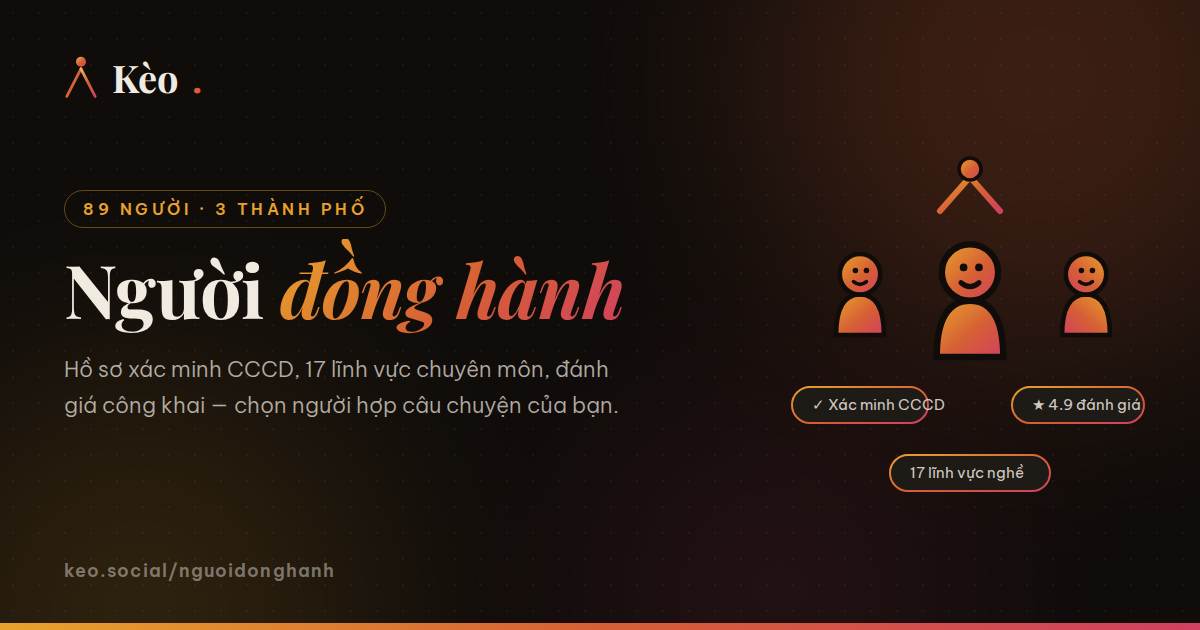
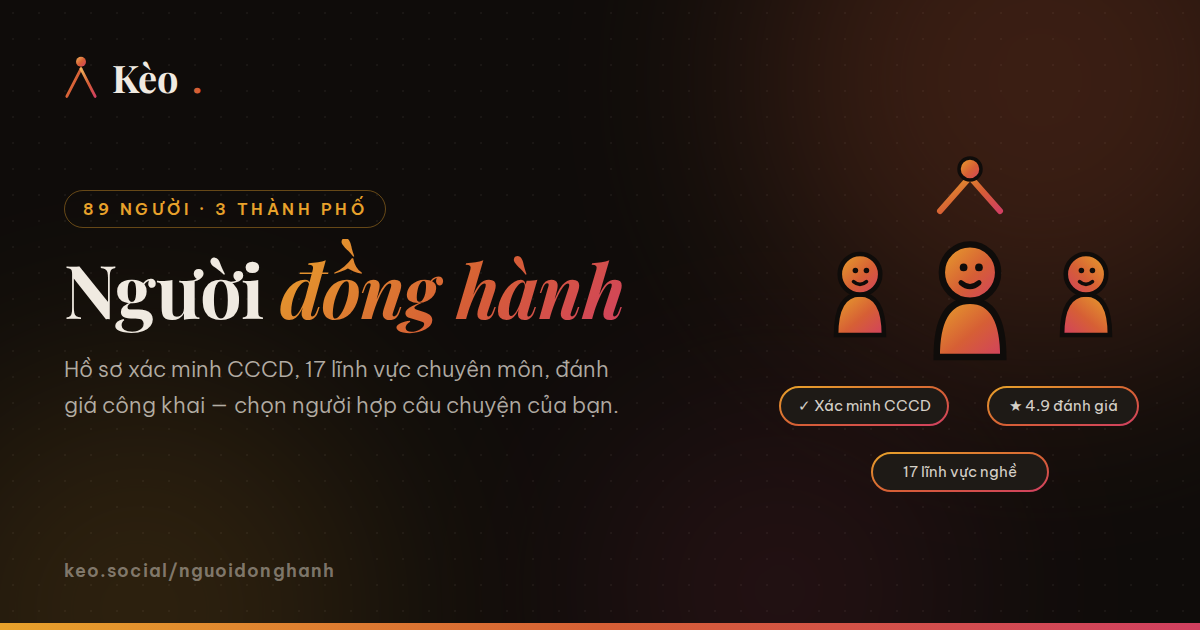
Add files via upload

Changed region(s): [[0.6475, 0.6032, 0.9558, 0.7841]]

diff --git a/khoa-hoc-ket-noi.html b/khoa-hoc-ket-noi.html
@@ -361,11 +361,75 @@ footer{background:#17120D;padding:56px 32px 32px;margin-top:64px}
   </div>
 </div>
 
-<div class="featured" id="featured">
+<div class="featured">
   <div class="featured-in">
-    <div class="feat-card" id="featCard">
-      <div class="ld" style="padding:60px 0;text-align:center;width:100%" data-i18n="feat_loading">Đang chọn bài nổi bật…</div>
+  <div class="feat-card">
+    <div class="feat-main">
+      <a href="/kho-ket-ban-sau-25-tuoi" class="feat-cover">
+        <svg viewBox="0 0 500 220" fill="none" class="feat-cover-art" preserveAspectRatio="xMidYMid slice">
+          <defs><linearGradient id="fcg" x1="0" y1="0" x2="1" y2="1">
+            <stop offset="0%" style="stop-color:color-mix(in srgb,var(--amber) 80%,var(--gold) 20%)"/>
+            <stop offset="55%" style="stop-color:var(--amber)"/>
+            <stop offset="100%" style="stop-color:color-mix(in srgb,var(--amber) 65%,#000 30%)"/>
+          </linearGradient></defs>
+          <rect width="500" height="220" fill="url(#fcg)"/>
+          <circle cx="420" cy="45" r="95" fill="#fff" opacity=".05"/>
+          <path d="M0 200 Q150 175 300 195 T500 180" stroke="#fff" stroke-width="1.4" opacity=".14" fill="none"/>
+          <!-- Một người, một mình giữa các toà nhà — minh hoạ gốc của bài, phóng lớn -->
+          <g transform="translate(300,4) scale(2.15)">
+            <path d="M18 76 Q18 60 27 60 Q36 60 36 76Z" fill="rgba(255,255,255,.24)" stroke="#fff" stroke-width="2"/><circle cx="27" cy="50" r="11" fill="rgba(255,255,255,.24)" stroke="#fff" stroke-width="2"/><circle cx="23" cy="48" r="1.3" fill="#fff"/><circle cx="31" cy="48" r="1.3" fill="#fff"/><path d="M23 54 Q27 57 31 54" stroke="#fff" stroke-width="1.6" stroke-linecap="round" fill="none"/><rect x="48" y="14" width="14" height="40" fill="none" stroke="#fff" stroke-width="1.8"/><rect x="52" y="20" width="3" height="4" fill="#fff" opacity=".7"/><rect x="58" y="20" width="3" height="4" fill="#fff" opacity=".7"/><rect x="52" y="28" width="3" height="4" fill="#fff" opacity=".7"/><rect x="58" y="28" width="3" height="4" fill="#fff" opacity=".7"/><rect x="65" y="26" width="9" height="28" fill="none" stroke="#fff" stroke-width="1.6" opacity=".8"/>
+          </g>
+        </svg>
+        <div class="feat-cover-overlay">
+          <span class="feat-badge vi">★ Bài nổi bật · Đô thị &amp; Kết nối</span>
+          <span class="feat-badge en">★ Featured · Urban Life</span>
+          <div class="feat-title"><span class="vi">Tại sao người trẻ Việt Nam ngày càng khó kết bạn <em>sau 25 tuổi</em></span><span class="en">Why Making Friends <em>After 25</em> Gets Harder for Young Vietnamese</span></div>
+        </div>
+      </a>
+      <div class="feat-body">
+        <div class="feat-desc"><span class="vi">Không phải vì bạn bận hơn hay khó tính hơn. Cấu trúc cuộc sống người lớn không được thiết kế để tình bạn tự nhiên hình thành.</span><span class="en">It's not that you're busier or pickier. Adult life just isn't built for friendships to form on their own.</span></div>
+        <a href="/kho-ket-ban-sau-25-tuoi" class="feat-read"><span class="vi">Đọc bài viết →</span><span class="en">Read article →</span></a>
+      </div>
     </div>
+    <div class="feat-right">
+      <div class="feat-right-hd">
+        <div class="feat-right-lbl"><span class="vi">Đọc thêm</span><span class="en">Also recommended</span></div>
+      </div>
+      <a href="/tai-sao-nguoi-tre-ngai-goi-dien-hon-nhan-tin" class="feat-side feat-side-dothi rv">
+        <div class="feat-side-cover">
+          <span class="feat-side-cat"><span class="vi">Đô thị</span><span class="en">Urban Life</span></span>
+          <div class="feat-side-illo"><svg viewBox="0 0 64 64" fill="none"><path d="M10 60 Q10 46 18 46 Q26 46 26 60Z" fill="rgba(255,255,255,.2)" stroke="#fff" stroke-width="1.8"/><circle cx="18" cy="36" r="10" fill="rgba(255,255,255,.2)" stroke="#fff" stroke-width="1.8"/><circle cx="15" cy="34" r="1.2" fill="#fff"/><circle cx="21" cy="34" r="1.2" fill="#fff"/><rect x="24" y="38" width="9" height="15" rx="2" fill="none" stroke="#fff" stroke-width="1.5"/><path d="M42 14 Q50 14 50 20 Q50 26 42 26 L38 30 L39 25 Q34 24 34 20 Q34 14 42 14Z" fill="rgba(255,255,255,.28)" stroke="#fff" stroke-width="1.4"/><circle cx="39" cy="20" r="1" fill="#fff"/><circle cx="42" cy="20" r="1" fill="#fff"/><circle cx="45" cy="20" r="1" fill="#fff"/><circle cx="52" cy="42" r="7" fill="none" stroke="#fff" stroke-width="1.3" stroke-dasharray="2 3" opacity=".55"/><path d="M48.5 38.5 L55.5 45.5 M55.5 38.5 L48.5 45.5" stroke="#fff" stroke-width="1.3" stroke-linecap="round" opacity=".5"/></svg></div>
+          <div class="feat-side-title"><span class="vi">Tại sao người trẻ ngại gọi điện hơn nhắn tin</span><span class="en">Why Young People Dread Phone Calls More Than Texts</span></div>
+        </div>
+        <div class="feat-side-body">
+          <div class="feat-side-desc"><span class="vi">Nhắn tin duy trì kết nối. Gọi điện tạo ra kết nối. Đây là hai việc khác nhau.</span><span class="en">Texting maintains a connection. Calling creates one. They're not the same thing.</span></div>
+          <div class="feat-side-time"><span class="vi">5 phút đọc</span><span class="en">5 min read</span></div>
+        </div>
+      </a>
+      <a href="/cach-dat-cau-hoi" class="feat-side feat-side-kynang rv">
+        <div class="feat-side-cover">
+          <span class="feat-side-cat"><span class="vi">Kỹ năng</span><span class="en">Skills</span></span>
+          <div class="feat-side-illo"><svg viewBox="0 0 64 64" fill="none"><path d="M14 60 Q14 44 24 44 Q34 44 34 60Z" fill="rgba(255,255,255,.22)" stroke="#fff" stroke-width="1.8"/><circle cx="24" cy="34" r="11" fill="rgba(255,255,255,.22)" stroke="#fff" stroke-width="1.8"/><circle cx="20" cy="32" r="1.3" fill="#fff"/><circle cx="28" cy="32" r="1.3" fill="#fff"/><path d="M19 38 Q24 41 29 38" stroke="#fff" stroke-width="1.5" stroke-linecap="round" fill="none"/><circle cx="47" cy="28" r="6" stroke="#fff" stroke-width="1.4" opacity=".75" fill="none"/><circle cx="47" cy="28" r="12" stroke="#fff" stroke-width="1.2" opacity=".45" fill="none"/><circle cx="47" cy="28" r="18" stroke="#fff" stroke-width="1" opacity=".22" fill="none"/><text x="47" y="32.5" text-anchor="middle" font-family="Georgia,serif" font-size="11" font-weight="700" fill="#fff">?</text></svg></div>
+          <div class="feat-side-title"><span class="vi">Cách đặt câu hỏi để trò chuyện không bao giờ cạn</span><span class="en">How to Ask Questions That Keep Conversations Going</span></div>
+        </div>
+        <div class="feat-side-body">
+          <div class="feat-side-desc"><span class="vi">Câu hỏi đúng không chỉ mở chủ đề mới — nó mở ra cả con người của người đối diện.</span><span class="en">The right question doesn't just open a new topic — it opens up the person in front of you.</span></div>
+          <div class="feat-side-time"><span class="vi">5 phút đọc</span><span class="en">5 min read</span></div>
+        </div>
+      </a>
+      <a href="/thu-keo" class="feat-side feat-side-dothi rv">
+        <div class="feat-side-cover">
+          <span class="feat-side-cat"><span class="vi">Đô thị</span><span class="en">Urban Life</span></span>
+          <div class="feat-side-illo"><svg viewBox="0 0 64 64" fill="none"><path d="M10 60 Q10 46 18 46 Q26 46 26 60Z" fill="rgba(255,255,255,.22)" stroke="#fff" stroke-width="1.8"/><circle cx="18" cy="36" r="10" fill="rgba(255,255,255,.22)" stroke="#fff" stroke-width="1.8"/><circle cx="15" cy="34" r="1.2" fill="#fff"/><circle cx="21" cy="34" r="1.2" fill="#fff"/><path d="M14 39 Q18 42 22 39" stroke="#fff" stroke-width="1.5" stroke-linecap="round" fill="none"/><path d="M28 48 L28 55 Q28 58 31 58 L34 58 Q37 58 37 55 L37 48Z" fill="none" stroke="#fff" stroke-width="1.5"/><path d="M37 50 Q41 50 41 53 Q41 56 37 55.5" stroke="#fff" stroke-width="1.2" fill="none"/><circle cx="32" cy="16" r="3" fill="rgba(255,255,255,.4)"/><circle cx="38" cy="12" r="4" fill="rgba(255,255,255,.4)"/><path d="M46 6 Q56 6 56 14 Q56 22 46 22Z" fill="rgba(255,255,255,.28)" stroke="#fff" stroke-width="1.4"/><path d="M51 9.5 L52.3 12.3 L55.3 12.7 L53.1 14.8 L53.7 17.7 L51 16.2 L48.3 17.7 L48.9 14.8 L46.7 12.7 L49.7 12.3Z" fill="#fff" opacity=".9"/></svg></div>
+          <div class="feat-side-title"><span class="vi">Tôi đã thử Kèo — và đây là những gì xảy ra</span><span class="en">I Tried Kèo — And Here's What Happened</span></div>
+        </div>
+        <div class="feat-side-body">
+          <div class="feat-side-desc"><span class="vi">Buổi gặp có awkward không? Người đồng hành như thế nào? Có làm lại không?</span><span class="en">Was it awkward? What was the companion like? Would I do it again?</span></div>
+          <div class="feat-side-time"><span class="vi">5 phút đọc</span><span class="en">5 min read</span></div>
+        </div>
+      </a>
+    </div>
+  </div>
   </div>
 </div>
 
@@ -1742,124 +1806,6 @@ try{var sa=localStorage.getItem('keo-accent');if(sa)setAccent(sa);}catch(e){}
 })();
 
 filterPosts('all');
-
-// ─── BÀI NỔI BẬT — chọn ngẫu nhiên theo NGÀY (ổn định cả ngày, không nhấp nháy khi F5,
-// tự đổi bài mỗi hôm). Dữ liệu tách 3 lớp để nhẹ: posts-slugs.json (danh sách rút gọn,
-// luôn tải ~4KB) -> chọn 3 slug -> chỉ tải posts-detail/{slug}.json + post-art/{slug}.svg
-// đúng 3 bài được chọn (mỗi bài ~2KB) thay vì tải hết nội dung 64 bài mỗi lượt xem trang. ───
-(function(){
-  // RNG có seed — cùng 1 ngày luôn ra cùng 1 kết quả, đổi kết quả khi sang ngày mới
-  function seededRng(seed){
-    let s = seed % 2147483647; if(s <= 0) s += 2147483646;
-    return function(){ s = (s * 16807) % 2147483647; return (s - 1) / 2147483646; };
-  }
-  function todaySeed(){
-    const d = new Date(); const str = `${d.getFullYear()}${d.getMonth()}${d.getDate()}`;
-    let h = 0; for(let i=0;i<str.length;i++) h = (h*31 + str.charCodeAt(i)) >>> 0;
-    return h;
-  }
-  function shuffle(arr, rng){
-    const a = arr.slice();
-    for(let i=a.length-1;i>0;i--){ const j = Math.floor(rng()*(i+1)); [a[i],a[j]]=[a[j],a[i]]; }
-    return a;
-  }
-  // Ưu tiên 3 bài khác danh mục nhau (chỉ có 4 danh mục nên gần như luôn làm được) —
-  // để khu "đọc thêm" không bị trùng màu ngẫu nhiên như random thuần.
-  function pickDiverse(shuffled, n){
-    const chosen = [shuffled[0]];
-    const usedCats = new Set([shuffled[0].cat]);
-    for(let i=1; i<shuffled.length && chosen.length<n; i++){
-      if(!usedCats.has(shuffled[i].cat)){ chosen.push(shuffled[i]); usedCats.add(shuffled[i].cat); }
-    }
-    for(let i=1; i<shuffled.length && chosen.length<n; i++){
-      if(chosen.indexOf(shuffled[i]) === -1) chosen.push(shuffled[i]);
-    }
-    return chosen;
-  }
-  // Gradient cover theo danh mục — dùng lại ĐÚNG công thức màu đã thiết lập cho .post-cover
-  // trong lưới bài viết (site-wide), không tự chế màu mới cho khu nổi bật.
-  const CAT_GRAD = {
-    'ket-noi': ['var(--cat-connect-gold)', 'var(--cat-connect)', 'var(--cat-connect-2)'],
-    'kynang': ['color-mix(in srgb,var(--indigo) 75%,var(--gold) 25%)', 'var(--indigo)', 'color-mix(in srgb,var(--indigo) 65%,#000 35%)'],
-    'nghi-thuc': ['color-mix(in srgb,var(--teal) 75%,var(--gold) 25%)', 'var(--teal)', 'color-mix(in srgb,var(--teal) 65%,#000 35%)'],
-    'dothi': ['color-mix(in srgb,var(--amber) 80%,var(--gold) 20%)', 'var(--amber)', 'color-mix(in srgb,var(--amber) 65%,#000 30%)'],
-  };
-  function gradStops(cat){
-    const c = CAT_GRAD[cat] || CAT_GRAD['ket-noi'];
-    return `<stop offset="0%" style="stop-color:${c[0]}"/><stop offset="55%" style="stop-color:${c[1]}"/><stop offset="100%" style="stop-color:${c[2]}"/>`;
-  }
-  function svgInner(svgStr){
-    const m = svgStr.match(/<svg[^>]*>([\s\S]*)<\/svg>/);
-    return m ? m[1] : '';
-  }
-  async function fetchJson(url){ const r = await fetch(url); if(!r.ok) throw new Error(url); return r.json(); }
-  async function fetchText(url){ const r = await fetch(url); if(!r.ok) throw new Error(url); return r.text(); }
-
-  async function renderFeatured(){
-    const slugs = await fetchJson('/posts-slugs.json');
-    const picked = pickDiverse(shuffle(slugs, seededRng(todaySeed())), 3);
-    const [mainP, side1, side2] = await Promise.all(picked.map(async s => {
-      const [detail, art] = await Promise.all([
-        fetchJson(`/posts-detail/${s.slug}.json`),
-        fetchText(`/post-art/${s.slug}.svg`),
-      ]);
-      return Object.assign({slug: s.slug, cat: s.cat}, detail, {art});
-    }));
-
-    const mainCover = `<svg viewBox="0 0 500 220" fill="none" class="feat-cover-art" preserveAspectRatio="xMidYMid slice">
-        <defs><linearGradient id="fcg" x1="0" y1="0" x2="1" y2="1">${gradStops(mainP.cat)}</linearGradient></defs>
-        <rect width="500" height="220" fill="url(#fcg)"/>
-        <circle cx="420" cy="45" r="95" fill="#fff" opacity=".05"/>
-        <path d="M0 200 Q150 175 300 195 T500 180" stroke="#fff" stroke-width="1.4" opacity=".14" fill="none"/>
-        <g transform="translate(300,6) scale(2.15)">${svgInner(mainP.art)}</g>
-      </svg>`;
-
-    function sideHtml(p){
-      return `<a href="/${p.slug}" class="feat-side feat-side-${p.cat}">
-        <div class="feat-side-cover">
-          <span class="feat-side-cat"><span class="vi">${p.cat_label.vi}</span><span class="en">${p.cat_label.en}</span></span>
-          <div class="feat-side-illo">${p.art}</div>
-          <div class="feat-side-title"><span class="vi">${p.title.vi}</span><span class="en">${p.title.en}</span></div>
-        </div>
-        <div class="feat-side-body">
-          <div class="feat-side-desc"><span class="vi">${p.desc.vi}</span><span class="en">${p.desc.en}</span></div>
-          <div class="feat-side-time"><span class="vi">${p.read_time.vi}</span><span class="en">${p.read_time.en}</span></div>
-        </div>
-      </a>`;
-    }
-
-    const html = `<div class="feat-main">
-        <a href="/${mainP.slug}" class="feat-cover">
-          ${mainCover}
-          <div class="feat-cover-overlay">
-            <span class="feat-badge vi">★ Bài nổi bật · ${mainP.cat_label.vi}</span>
-            <span class="feat-badge en">★ Featured · ${mainP.cat_label.en}</span>
-            <div class="feat-title"><span class="vi">${mainP.title.vi}</span><span class="en">${mainP.title.en}</span></div>
-          </div>
-        </a>
-        <div class="feat-body">
-          <div class="feat-desc"><span class="vi">${mainP.desc.vi}</span><span class="en">${mainP.desc.en}</span></div>
-          <a href="/${mainP.slug}" class="feat-read"><span class="vi">Đọc bài viết →</span><span class="en">Read article →</span></a>
-        </div>
-      </div>
-      <div class="feat-right">
-        <div class="feat-right-hd"><div class="feat-right-lbl"><span class="vi">Đọc thêm</span><span class="en">Also recommended</span></div></div>
-        ${sideHtml(side1)}
-        ${sideHtml(side2)}
-      </div>`;
-
-    const card = document.getElementById('featCard');
-    card.style.opacity = '0';
-    card.innerHTML = html;
-    requestAnimationFrame(()=>{ card.style.transition = 'opacity .4s ease'; card.style.opacity = '1'; });
-  }
-
-  renderFeatured().catch(function(err){
-    console.error('Không tải được bài nổi bật:', err);
-    const sec = document.getElementById('featured');
-    if(sec) sec.style.display = 'none'; // ẩn gọn thay vì để dòng "đang tải" treo mãi
-  });
-})();
 
 // Scroll reveal — subtle fade+rise on entry, site-wide
 (function(){
